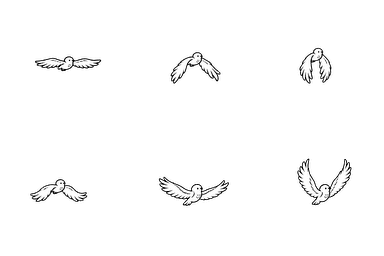
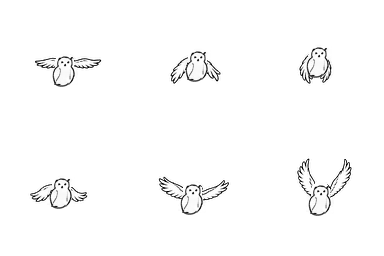
Owl: the invitation's owl in flight too
Taking off, flying, gliding and landing, the pack's round little bird is replaced
by the invite's owl (head and body, at its own size, in its own line) between the
pack's wings. It is now the same owl in every frame.

diff --git a/tools/import_assets.py b/tools/import_assets.py
@@ -9,7 +9,8 @@ high-quality reduction. Along the way, a few corrections (all listed in FIXES be
     (house and trees, measured on art/trees/background.png): the same mean ink darkness
     and the same stroke width, with one tone curve per character, then each frame levelled to the
     same darkness so no frame looks paler than its neighbours.
-  - owl: perched, it is the invitation's own owl, cut out of the invite (see invite_owl).
+  - owl: it is the invitation's own owl, cut out of the invite (see invite_owl): as it is when
+    perched, and in place of the pack's bird between the pack's wings when it flies.
   - register: in the deer's walk cycle the body slides ±7 px back and forth (the frames are
     aligned on the feet), which makes the walk judder. Those frames are re-centred on the body.
   - scale: three couple frames (lean in, kiss, smile) drawn ~4 % smaller are brought back to size.
@@ -159,6 +160,21 @@ def invite_owl(blink=False):
     return np.dstack([grey, grey, grey, alpha * 255]).round().astype(np.uint8)
 
 
+def erased(px, cx, cy, rx, ry):
+    """The frame with an ellipse cleared (to take the pack's bird out from between its wings)."""
+    yy, xx = np.mgrid[0:px.shape[0], 0:px.shape[1]]
+    out = px.copy()
+    out[((xx - cx) / rx) ** 2 + ((yy - cy) / ry) ** 2 <= 1] = 0
+    return out
+
+
+def over(px, piece, x, y):
+    """The frame with a piece drawn over it at (x, y)."""
+    im = Image.fromarray(px)
+    im.alpha_composite(piece, (x, y))
+    return np.asarray(im)
+
+
 # the drawing's own pen: what every character is matched to
 DRAWING = site / "art/trees/background.png"      # the drawing without the owl (served as a WebP)
 PEN = line([darkness(np.asarray(Image.open(DRAWING).convert("RGBA")))])
@@ -208,9 +224,30 @@ for name, a in assets.items():
           f"(curve x{k:.2f}, gamma {gamma:.2f})")
 
     if name == "owl":
-        # perched, it is the invitation's own owl (0 at rest, 1 blinking, 15 just settled); the pack's
-        # perched owl was a different bird (round head, in profile)
-        frames[0], frames[1], frames[15] = invite_owl(), invite_owl(blink=True), invite_owl()
+        # It is the invitation's own owl in every frame (the pack's was a different bird: round head, in
+        # profile). Perched (0 at rest, 1 blinking, 15 just settled): the invite's owl as it is.
+        rest = invite_owl()
+        frames[0], frames[1], frames[15] = rest, invite_owl(blink=True), rest
+        # Taking off and landing (3, 14): the pack's wings, the invite's owl standing in front of them.
+        # Crouching before take-off (2): the invite's owl, a little squashed onto its feet.
+        for i, hole in {3: (71, 84, 12, 16), 14: (65, 84, 9, 16)}.items():
+            frames[i] = over(erased(erased(frames[i], *hole), 82, 76, 9, 11) if i == 3 else erased(frames[i], *hole),
+                             Image.fromarray(rest), 0, 0)
+        squat = Image.fromarray(rest).convert("RGBa").resize((CELL, round(CELL * .9)), Image.LANCZOS).convert("RGBA")
+        frames[2] = repen([np.asarray(over(np.zeros_like(rest), squat, 0, 100 - round(100 * .9)))], *PEN)[0][0]
+        # Flying and gliding (4 – 12): the pack's wings, with the invite's owl (head and body, without
+        # its feet, at its own size and in its own line) in place of the pack's little round bird.
+        body = Image.new("RGBA", (28, 36), (0, 0, 0, 0))
+        body.paste(Image.fromarray(rest).crop((50, 64, 78, 97)), (0, 0))
+        # (without its feet the outline is open underneath: closed with one shallow pen stroke)
+        ink_ = np.nonzero(darkness(np.asarray(body))[32] > INK)[0]
+        belly = Image.new("RGBA", (28 * 4, 36 * 4), (0, 0, 0, 0))
+        ImageDraw.Draw(belly).arc((ink_.min() * 4, 26 * 4, ink_.max() * 4 + 4, 34 * 4 + 2), 12, 168, fill=(60, 60, 60, 235), width=6)
+        body.alpha_composite(belly.convert("RGBa").resize(body.size, Image.LANCZOS).convert("RGBA"))
+        CENTRES = {4: (65, 64), 5: (63, 64), 6: (64, 63), 7: (69, 58), 8: (62, 54), 9: (61, 57),
+                   10: (64, 63), 11: (64, 64), 12: (64, 63)}        # where the pack's bird is, in each cell
+        for i, (cx, cy) in CENTRES.items():
+            frames[i] = over(erased(frames[i], cx, cy + 1, 10, 12), body, cx - body.width // 2, cy - 11)
 
     for s, sheet_path in enumerate(a["sheets"]):
         sheet = Image.new("RGBA", (COLS * CELL, ROWS * CELL), (0, 0, 0, 0))
